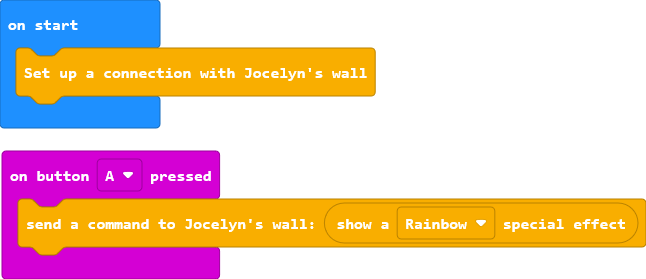
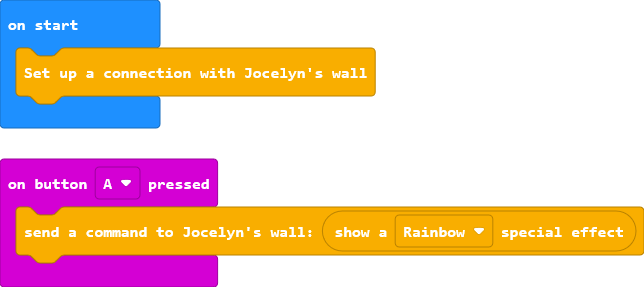
improved naming and comments

diff --git a/lights.ts b/lights.ts
@@ -4,24 +4,25 @@
 */
 
 /**
- * Different effects that can happen on Jocelyn's wall
+ * Different special effects that can happen on Jocelyn's wall
  */
 enum SpecialEffect {
     Rainbow,
     //% block="Rainbow with Glitter"
     RainbowWithGlitter,
+    //% block="Confetti"
     Confetti,
     //% block="Sweeping Dot"
     Sweepingdot,
     //% block="Pulsing Stripes"
     PulsingStripes,
     //% block="Juggling Dots"
-    JugglingDots,
+    JugglingDots
 }
 
 
 /**
- * lights blocks
+ * JC lights blocks
  */
 //% weight=1000 color=#f9ae00 icon=""
 namespace jC_Lights {
@@ -43,17 +44,17 @@ namespace jC_Lights {
      */
     //% help=functions/command
     //% block="send a command to Jocelyn's wall: %command"
-    export function specialEffect(command: string): void {
+    export function sendWallCommand(command: string): void {
         radio.sendString(command)
         serial.writeLine(command)
     }
 
     /**
-     * Return the string code for a special effect
+     * Translates a special effect into a command string
      */
     //% help=functions/specialEffect
     //% block="show a %effect special effect"
-    export function effectStr(effect: SpecialEffect): string {
+    export function specialEffectCommand(effect: SpecialEffect): string {
         switch (effect) {
             case SpecialEffect.Rainbow: return "EFFECT:RAINBOW";
             case SpecialEffect.RainbowWithGlitter: return "EFFECT:RAINBGL";

diff --git a/main.ts b/main.ts
@@ -1,4 +1,4 @@
 input.onButtonPressed(Button.A, function () {
-    jC_Lights.specialEffect(jC_Lights.effectStr(SpecialEffect.Rainbow))
+    jC_Lights.sendWallCommand(jC_Lights.specialEffectCommand(SpecialEffect.Rainbow))
 })
 jC_Lights.setWallConnection()
